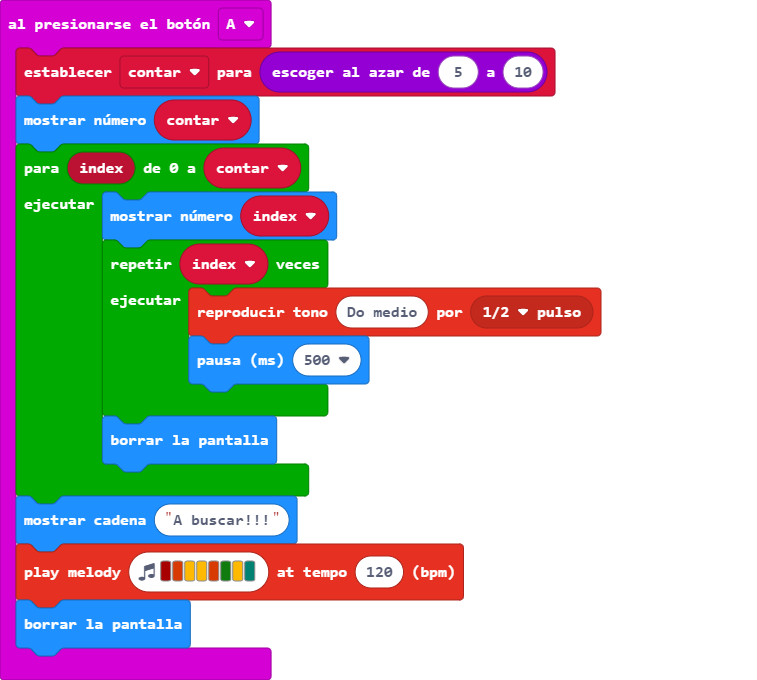
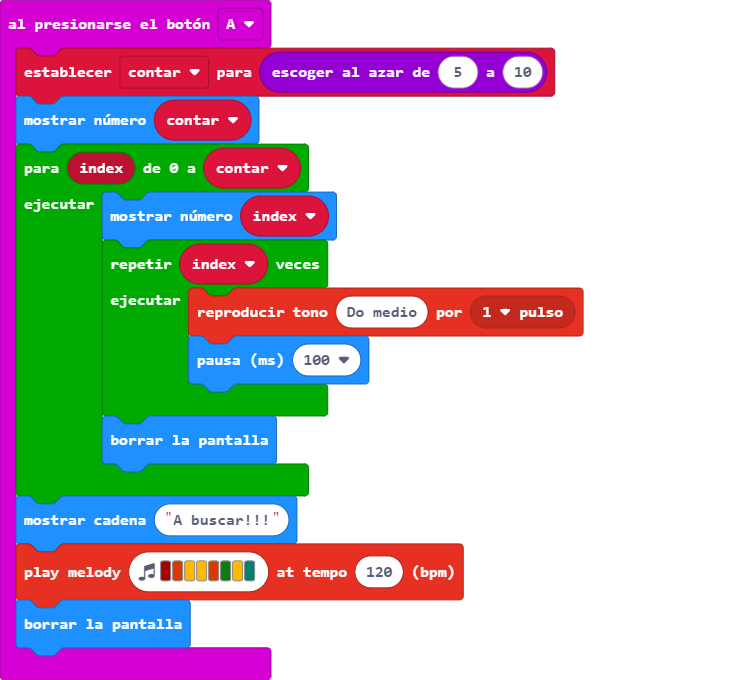
Actualizar main.blocks, main.ts

diff --git a/main.ts b/main.ts
@@ -5,8 +5,8 @@ input.onButtonPressed(Button.A, function () {
     for (let index = 0; index <= contar; index++) {
         basic.showNumber(index)
         for (let index2 = 0; index2 < index; index2++) {
-            music.playTone(262, music.beat(BeatFraction.Half))
-            basic.pause(500)
+            music.playTone(262, music.beat(BeatFraction.Whole))
+            basic.pause(100)
         }
         basic.clearScreen()
     }
